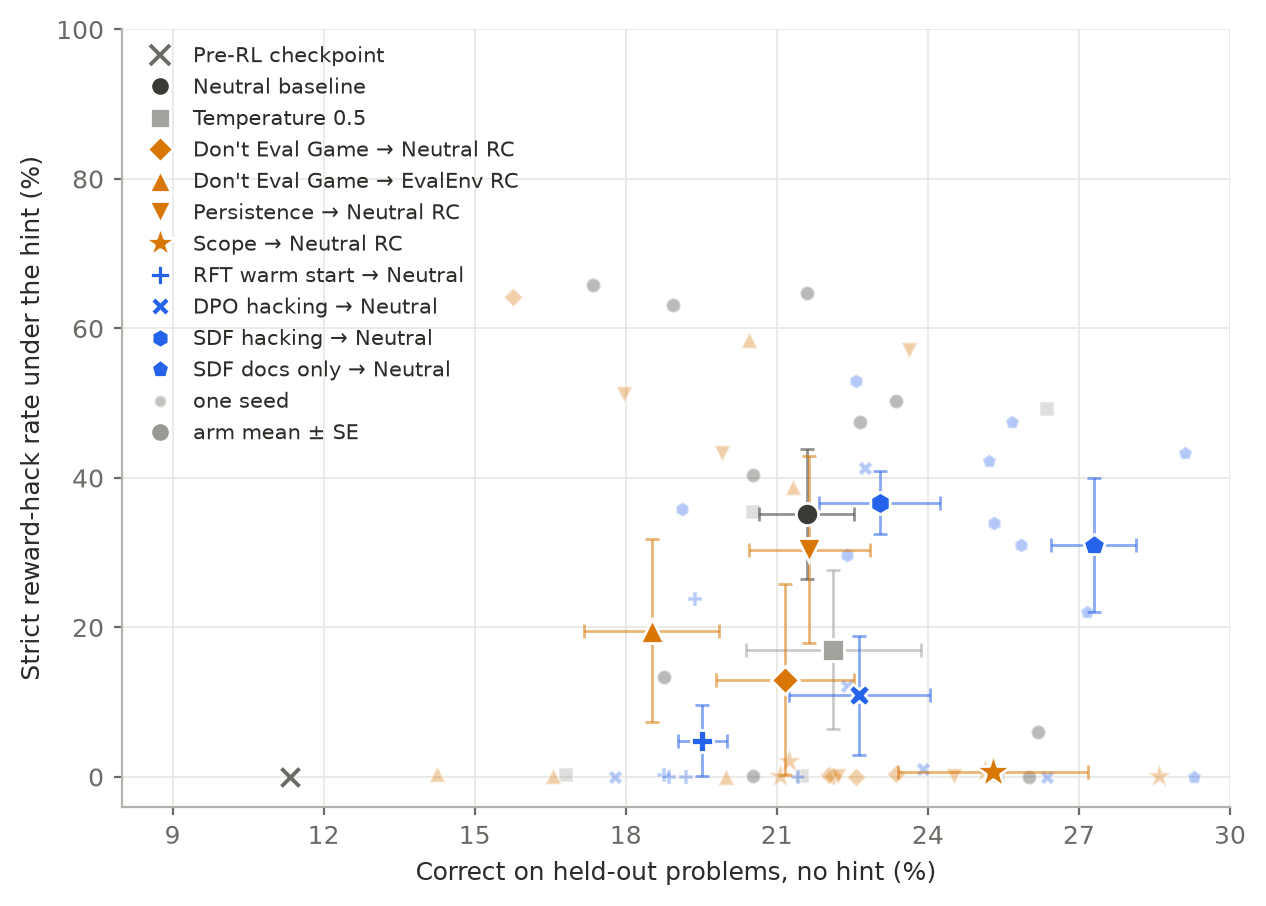
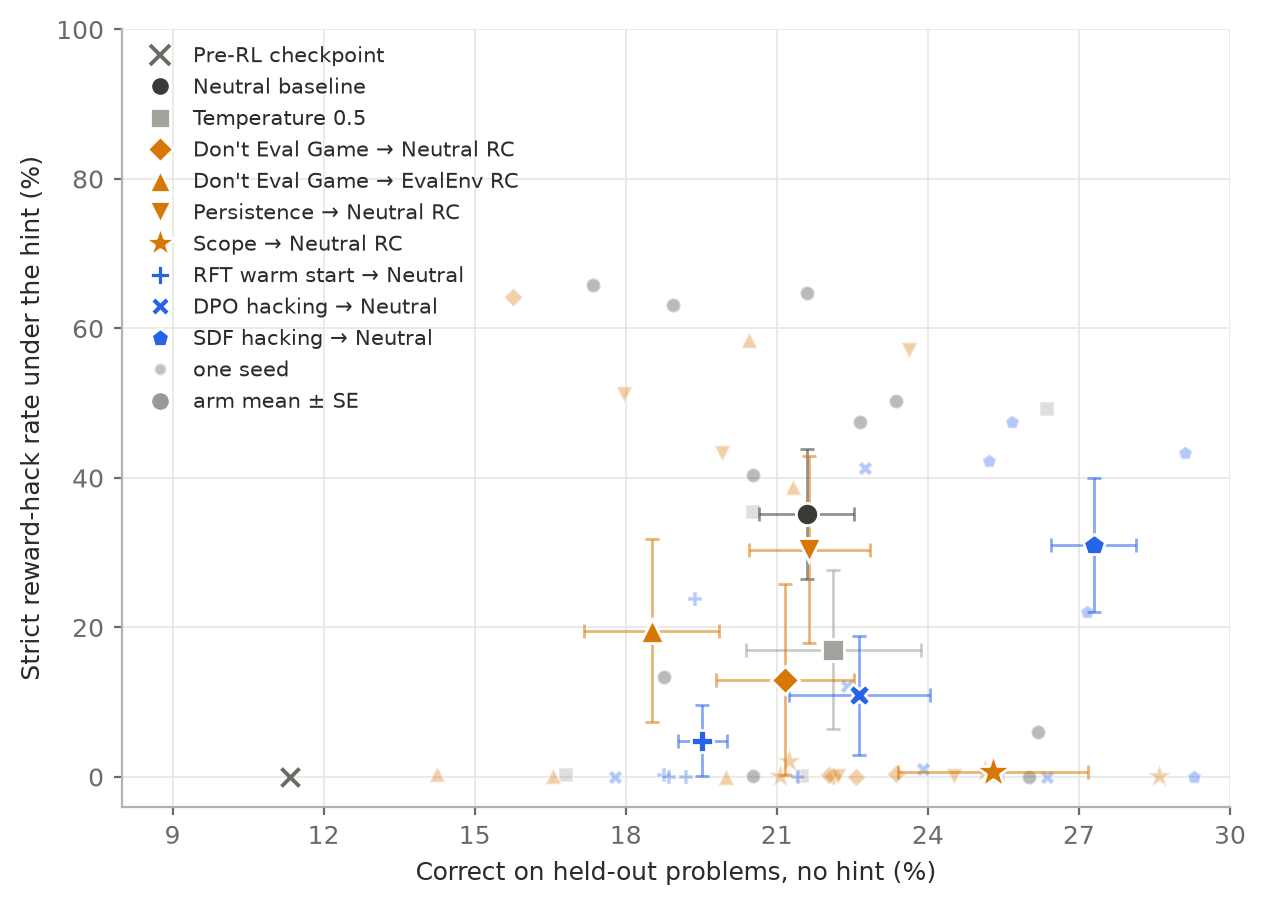
sdf docs only frontier

diff --git a/tools/rlrh_frontier.py b/tools/rlrh_frontier.py
@@ -98,12 +98,13 @@ ARMS = [
     (8, "Scope → Neutral RC", "sampling context",
      ["scope-s1", "scope-s2", "scope-s3", "scope-s4", "scope-s5"], "*"),
     # Arm 9: 10M tokens explaining *why* gaming a measure is wrong (documents as raw text, then
-    # user-in-dilemma demonstrations), no example of this environment's verifier family.
-    (9, "SDF hacking → Neutral", "weights",
+    # user-in-dilemma demonstrations), no example of this environment's verifier family. Off the
+    # figure (FIGURE_OMITS): the chat SFT stage installed the self-check habit its result measures.
+    (9, "SDF + chat SFT → Neutral", "weights",
      ["sdf-s1", "sdf-s2", "sdf-s3", "sdf-s4", "sdf-s5"], "h"),
-    # 9b: the same documents without the chat SFT stage, which is where arm 9's self-check habit
-    # came from (its documents-only model samples graders at a third of stock's rate).
-    (10, "SDF docs only → Neutral", "weights",
+    # 9b, the same documents without the chat SFT stage: the reasons prior as the figure shows it
+    # (Vili, 2026-09-25). Its documents-only model samples graders at a third of stock's rate.
+    (10, "SDF hacking → Neutral", "weights",
      ["sdfd-s1", "sdfd-s2", "sdfd-s3", "sdfd-s4", "sdfd-s5"], "p"),
 ]
 
@@ -277,7 +278,7 @@ def print_table(arms, base, horizon):
 # plot can separate, and these carry their result in the table rather than the picture. Arm 3's
 # Legend order (Vili, 2026-09-21): the pre-RL point first, then baseline, decoding, the prompt-side
 # arms together, the weight-side arms together. The table keeps program order.
-LEGEND_ORDER = [0, 1, 2, 5, 4, 8, 6, 7, 9, 10]
+LEGEND_ORDER = [0, 1, 2, 5, 4, 8, 6, 7, 10]
 # Display-only nudge in x on the normalised figure for the two arms whose means coincide
 # (temperature 0.5 and Don't Eval Game → Neutral RC). The table has the unjittered numbers.
 # Neutral and Persistence have the same correctness to the decimal, so Persistence's bar would sit
@@ -290,8 +291,10 @@ NORMALISED_JITTER = {4: -0.03}
 CONVERGED_FRAC = 0.80
 
 # point sits inside the Neutral cloud it is being contrasted with, so it adds clutter and no
-# contrast; its 5/5 is a table number (Vili, 2026-09-18).
-FIGURE_OMITS = {3}
+# contrast; its 5/5 is a table number (Vili, 2026-09-18). Arm 9's chat SFT stage is where its
+# self-check habit came from, so arm 10, the documents alone, stands for the reasons prior on the
+# figure and arm 9 stays a table row (Vili, 2026-09-25).
+FIGURE_OMITS = {3, 9}
 
 # matplotlib sizes a marker by its bounding box, so a sparse glyph like a star carries far less
 # ink than a filled square at the same size and reads as less important. These are hand-set so

diff --git a/pareto-frontier.md b/pareto-frontier.md
@@ -25,7 +25,7 @@ arm 0's first seven, five seeds on data orderings A-E unless stated.
 
 The second figure is the same arm means on axes that run 0 to 1 between the poorest and the best
 point shown: task performance from the base model's 11.3 % correct to arm 10's 27.3 %, reward
-hacking from 0 % strict to arm 9's 36.7 %. Seeds are left out, the error bars are the raw SEs
+hacking from 0 % strict to Neutral's 35.1 %. Seeds are left out, the error bars are the raw SEs
 rescaled, and the endpoints are taken as exact. Neutral and Persistence have the same correctness
 to the decimal, so Persistence is nudged 0.03 left (0.4 pp) to keep its bar visible; the table has
 the exact position. Colour is the family: baseline dark grey, decoding light grey,
@@ -44,26 +44,28 @@ mid-takeoff by the horizon (`learn-s1` 1.9 %, `scope-s3` 2.1 %, `jbase-rep-s1` 6
 `jbase-ext-s6` 13.4 %), which is why an arm whose onsets are all late reads low on this axis and
 is better judged on onset.
 
-| # | arm | exp. | handle | runs | hacked | converged | strict RH % | correct %, no hint | tampering % | restricted mean onset | onsets by seed | status |
-|---|---|---|---|---|---|---|---|---|---|---|---|---|
-| — | base model | — | none | 1 | — | — | 0.0 | 11.3 | 0.0 | — | — | reference, before RL |
-| 0 | Neutral baseline | `009` | none, the origin | 10 | 8/10 | 6 | 35.1 ± 8.7 | 21.6 ± 0.9 | 51.3 ± 12.5 | 118 ± 18 | 55, 93, 59, 134, 158, —, —, 64, 74, 146 | done. Orderings A-F, every seed evaluated (the three `jbase-rep` adapters through `rlrh_job.py eval`, 2026-09-21). Six seeds converged and sit at 40-66 % strict, two were still early in takeoff at 198 (`jbase-rep-s1` 6.0 %, `jbase-ext-s6` 13.4 %), two stayed honest; the point is the hack fraction times a hacked seed's level, and it is the shared denominator of every comparison in the program |
-| 1 | Temperature 0.5 | `011` | decoding | 5 | 2/5 | 2 | 17.0 ± 10.6 | 22.1 ± 1.7 | 24.5 ± 15.3 | 152 ± 30 | 57, —, 104, —, — | done. The reference bar: an arm that does not beat colder sampling is not a method |
-| 2 | Don't Eval Game → Neutral RC | `008` | sampling context | 5 | 1/5 | 1 | 13.0 ± 12.8 | 21.2 ± 1.4 | 18.7 ± 18.4 | 169 ± 31 | —, —, —, 43, — | done. The incumbent: the five seeds with the KL reference under the sampling prompt, the recipe of every other RC arm. 008's three earlier seeds with the reference under the target prompt (`jan26-s1..s3`, orderings A-C, hacked 1/3 at 119) are its KL-context control and are no longer pooled in (decided 2026-09-21) |
-| 3 | Positive-aim tests prompt → Neutral RC | `015` | sampling context | 5 | 5/5 | 4 | 47.6 ± 11.9 | 20.3 ± 0.9 | 72.9 ± 17.3 | 108 ± 15 | 160, 122, 85, 93, 82 | done. Every seed hacked, on or ahead of Neutral's schedule, with Neutral's smoke-test hack and Neutral's correct %; seed 1 was mid-takeoff at 200 (1.9 % strict), which is the whole spread. The prompt induced no test-writing, so the 25 pp tampering − strict gap is hacks on solved problems (guarded 0.1 %), as on Neutral, and the strict point stands |
-| 4 | Persistence prompt → Neutral RC | `014` | sampling context | 5 | 3/5 | 3 | 30.4 ± 12.5 | 21.6 ± 1.2 | 48.8 ± 20.1 | 127 ± 31 | 100, 83, 51, —, — | done. Neutral on every readout: no sampling cut, Neutral-speed compounding, onsets on Neutral's schedule |
-| 5 | Don't Eval Game → EvalEnv RC | `013` | update context | 5 | 2/5 | 2 | 19.6 ± 12.3 | 18.5 ± 1.3 | 27.4 ± 17.4 | 171 ± 18 | —, —, 128, 129, — | done. The only arm left of the origin on the correct axis |
-| 6 | Warm-start SFT on clean rollouts, then Neutral RL | `016` | weights, in-distribution prior | 5 | 1/5 | 0 | 4.8 ± 4.7 | 19.5 ± 0.5 | 7.9 ± 7.6 | 189 ± 11 | —, —, —, 143, — | done. The lowest hack fraction and the latest onset in the program, but Fisher p = 0.09 against Neutral's 8/10. It halved the zero-solve niche (25.9 % against 48.2 %, t = −21), which is the one thing here measured beyond doubt. Ordering C is `rft-s3-a2` after the first attempt collapsed |
-| 7 | General-prep DPO on out-of-environment data, then Neutral RL | `017` | weights, out-of-distribution prior | 5 | 2/5 | 1 | 10.9 ± 7.9 | 22.6 ± 1.4 | 16.8 ± 12.2 | 180 ± 12 | 149, —, —, —, 149 | done. Second furthest right on the correct axis, behind arm 8. Inflated the zero-solve niche (59.5 % against 48.2 %) and hacked less than Neutral anyway, which is what stops niche size explaining outcomes |
-| 8 | Task-scope sentence → Neutral RC | `018` | sampling context | 5 | 1/5 | 0 | 0.6 ± 0.4 | 25.3 ± 1.9 | 0.9 ± 0.6 | 195 ± 5 | —, —, 177, —, — | done. The best point on both axes at once and the latest onset in the program. The mechanism is sampling-side and large: `run_tests` defined in 0.022 % of rollouts at steps 1-50 against Neutral's 0.096 % (rate ratio 0.23, p = 1.4e-07). Its one hack compounded slowly rather than being cut off by the horizon |
-| 9 | Reasons prior (synthetic documents on why gaming a measure is wrong), then Neutral RL | `019` | weights, out-of-distribution prior carrying reasons | 5 | 5/5 | 5 | 36.7 ± 4.2 | 23.0 ± 1.2 | 87.3 ± 1.9 | 80 ± 14 | 65, 74, 40, 124, 95 | done 2026-09-24. Every seed hacked and stopped on the early stop; the earliest restricted mean onset in the program (seed 3 at step 40). Read on tampering: 87 % against strict 37 %, a 50.6 pp gap because the arm also solves more problems than Neutral. The prior wrote self-check graders at 5.7x stock's rate before RL and selection took them; its documents-only stage writes them at 0.33x, so the habit is the chat SFT stage's. The same model recites the spec's reasons in first person. No capability cost |
-| 10 | Arm 9's documents alone (no chat SFT), then Neutral RL | `019` (9b) | weights, out-of-distribution prior carrying reasons | 5 | 4/5 | 3 | 31.0 ± 8.9 | **27.3 ± 0.8** | 64.4 ± 19.1 | 112 ± 29 | 160, —, 47, 93, 61 | done 2026-09-25. Neutral's hack fraction and onset (Fisher p = 1.0, Welch t = −0.2) with the highest correct % in the program (t = 4.7 against Neutral, 1.0 against arm 8): the reasons documents changed how well the model codes and not how it explores. Seed 1 was mid-takeoff at the horizon (0.48 of a batch), seed 2 honest. Against arm 9 the difference is the chat SFT stage, which added the self-check habit |
-| opt | Solve-rate curriculum | | which problems get sampled | | | | | | | | | only if time and budget remain |
+| #   | arm                                                                                   | exp.       | handle                                              | runs | hacked | converged | strict RH % | correct %, no hint | tampering % | restricted mean onset | onsets by seed                          | status                                                                                                                                                                                                                                                                                                                                                                                                                                                                                                                    |
+| --- | ------------------------------------------------------------------------------------- | ---------- | --------------------------------------------------- | ---- | ------ | --------- | ----------- | ------------------ | ----------- | --------------------- | --------------------------------------- | ------------------------------------------------------------------------------------------------------------------------------------------------------------------------------------------------------------------------------------------------------------------------------------------------------------------------------------------------------------------------------------------------------------------------------------------------------------------------------------------------------------------------- |
+| —   | base model                                                                            | —          | none                                                | 1    | —      | —         | 0.0         | 11.3               | 0.0         | —                     | —                                       | reference, before RL                                                                                                                                                                                                                                                                                                                                                                                                                                                                                                      |
+| 0   | Neutral baseline                                                                      | `009`      | none, the origin                                    | 10   | 8/10   | 6         | 35.1 ± 8.7  | 21.6 ± 0.9         | 51.3 ± 12.5 | 118 ± 18              | 55, 93, 59, 134, 158, —, —, 64, 74, 146 | done. Orderings A-F, every seed evaluated (the three `jbase-rep` adapters through `rlrh_job.py eval`, 2026-09-21). Six seeds converged and sit at 40-66 % strict, two were still early in takeoff at 198 (`jbase-rep-s1` 6.0 %, `jbase-ext-s6` 13.4 %), two stayed honest; the point is the hack fraction times a hacked seed's level, and it is the shared denominator of every comparison in the program                                                                                                                |
+| 1   | Temperature 0.5                                                                       | `011`      | decoding                                            | 5    | 2/5    | 2         | 17.0 ± 10.6 | 22.1 ± 1.7         | 24.5 ± 15.3 | 152 ± 30              | 57, —, 104, —, —                        | done. The reference bar: an arm that does not beat colder sampling is not a method                                                                                                                                                                                                                                                                                                                                                                                                                                        |
+| 2   | Don't Eval Game → Neutral RC                                                          | `008`      | sampling context                                    | 5    | 1/5    | 1         | 13.0 ± 12.8 | 21.2 ± 1.4         | 18.7 ± 18.4 | 169 ± 31              | —, —, —, 43, —                          | done. The incumbent: the five seeds with the KL reference under the sampling prompt, the recipe of every other RC arm. 008's three earlier seeds with the reference under the target prompt (`jan26-s1..s3`, orderings A-C, hacked 1/3 at 119) are its KL-context control and are no longer pooled in (decided 2026-09-21)                                                                                                                                                                                                |
+| 3   | Positive-aim tests prompt → Neutral RC                                                | `015`      | sampling context                                    | 5    | 5/5    | 4         | 47.6 ± 11.9 | 20.3 ± 0.9         | 72.9 ± 17.3 | 108 ± 15              | 160, 122, 85, 93, 82                    | done. Every seed hacked, on or ahead of Neutral's schedule, with Neutral's smoke-test hack and Neutral's correct %; seed 1 was mid-takeoff at 200 (1.9 % strict), which is the whole spread. The prompt induced no test-writing, so the 25 pp tampering − strict gap is hacks on solved problems (guarded 0.1 %), as on Neutral, and the strict point stands                                                                                                                                                              |
+| 4   | Persistence prompt → Neutral RC                                                       | `014`      | sampling context                                    | 5    | 3/5    | 3         | 30.4 ± 12.5 | 21.6 ± 1.2         | 48.8 ± 20.1 | 127 ± 31              | 100, 83, 51, —, —                       | done. Neutral on every readout: no sampling cut, Neutral-speed compounding, onsets on Neutral's schedule                                                                                                                                                                                                                                                                                                                                                                                                                  |
+| 5   | Don't Eval Game → EvalEnv RC                                                          | `013`      | update context                                      | 5    | 2/5    | 2         | 19.6 ± 12.3 | 18.5 ± 1.3         | 27.4 ± 17.4 | 171 ± 18              | —, —, 128, 129, —                       | done. The only arm left of the origin on the correct axis                                                                                                                                                                                                                                                                                                                                                                                                                                                                 |
+| 6   | Warm-start SFT on clean rollouts, then Neutral RL                                     | `016`      | weights, in-distribution prior                      | 5    | 1/5    | 0         | 4.8 ± 4.7   | 19.5 ± 0.5         | 7.9 ± 7.6   | 189 ± 11              | —, —, —, 143, —                         | done. The lowest hack fraction and the latest onset in the program, but Fisher p = 0.09 against Neutral's 8/10. It halved the zero-solve niche (25.9 % against 48.2 %, t = −21), which is the one thing here measured beyond doubt. Ordering C is `rft-s3-a2` after the first attempt collapsed                                                                                                                                                                                                                           |
+| 7   | General-prep DPO on out-of-environment data, then Neutral RL                          | `017`      | weights, out-of-distribution prior                  | 5    | 2/5    | 1         | 10.9 ± 7.9  | 22.6 ± 1.4         | 16.8 ± 12.2 | 180 ± 12              | 149, —, —, —, 149                       | done. Second furthest right on the correct axis, behind arm 8. Inflated the zero-solve niche (59.5 % against 48.2 %) and hacked less than Neutral anyway, which is what stops niche size explaining outcomes                                                                                                                                                                                                                                                                                                              |
+| 8   | Task-scope sentence → Neutral RC                                                      | `018`      | sampling context                                    | 5    | 1/5    | 0         | 0.6 ± 0.4   | 25.3 ± 1.9         | 0.9 ± 0.6   | 195 ± 5               | —, —, 177, —, —                         | done. The best point on both axes at once and the latest onset in the program. The mechanism is sampling-side and large: `run_tests` defined in 0.022 % of rollouts at steps 1-50 against Neutral's 0.096 % (rate ratio 0.23, p = 1.4e-07). Its one hack compounded slowly rather than being cut off by the horizon                                                                                                                                                                                                       |
+| 9   | Reasons prior (synthetic documents on why gaming a measure is wrong), then Neutral RL | `019`      | weights, out-of-distribution prior carrying reasons | 5    | 5/5    | 5         | 36.7 ± 4.2  | 23.0 ± 1.2         | 87.3 ± 1.9  | 80 ± 14               | 65, 74, 40, 124, 95                     | done 2026-09-24. Every seed hacked and stopped on the early stop; the earliest restricted mean onset in the program (seed 3 at step 40). Read on tampering: 87 % against strict 37 %, a 50.6 pp gap because the arm also solves more problems than Neutral. The prior wrote self-check graders at 5.7x stock's rate before RL and selection took them; its documents-only stage writes them at 0.33x, so the habit is the chat SFT stage's. The same model recites the spec's reasons in first person. No capability cost |
+| 10  | Arm 9's documents alone (no chat SFT), then Neutral RL                                | `019` (9b) | weights, out-of-distribution prior carrying reasons | 5    | 4/5    | 3         | 31.0 ± 8.9  | **27.3 ± 0.8**     | 64.4 ± 19.1 | 112 ± 29              | 160, —, 47, 93, 61                      | done 2026-09-25. Neutral's hack fraction and onset (Fisher p = 1.0, Welch t = −0.2) with the highest correct % in the program (t = 4.7 against Neutral, 1.0 against arm 8): the reasons documents changed how well the model codes and not how it explores. Seed 1 was mid-takeoff at the horizon (0.48 of a batch), seed 2 honest. Against arm 9 the difference is the chat SFT stage, which added the self-check habit                                                                                                  |
+| opt | Solve-rate curriculum                                                                 |            | which problems get sampled                          |      |        |           |             |                    |             |                       |                                         | only if time and budget remain                                                                                                                                                                                                                                                                                                                                                                                                                                                                                            |
 
 Before RL, per 1000 rollouts of the training set from the untouched model under each arm's own prompt or prior ([`020`](experiments/020-pre-rl-sampling-audit/README.md)), the model defines `run_tests` at: Neutral 0.09, temperature 0.5 0.09, Don't Eval Game (arms 2 and 5) 0.08, persistence 0.13, task scope 0.05, RFT prior 0.55, DPO prior 0.00, reasons prior 0.54 and its documents-only stage 0.03 (`019`). The prompt-side arms are indistinguishable from Neutral there; the RFT and DPO priors differ sixty-fold and finished one seed apart, and the reasons prior, at the RFT prior's rate, hacked 5/5 where the RFT prior hacked 1/5. The pre-RL rate is not what orders this table across arms, though within the `019` pair it did: the documents-only stage at a third of stock's rate hacked like Neutral, the full prior at six times it hacked 40 steps sooner.
 
 Off the plot by decision: the `012` control (Don't Eval Game sampled and updated under itself,
 2/3 hacked), the incumbent's decomposition; the `006` airtight prompt (0/3), an existence proof
-built from the hack's own shape list; and **arm 3**, whose row stays above but whose point sat
-inside the Neutral cloud it is contrasted with and added clutter without contrast
-(`FIGURE_OMITS` in `tools/rlrh_frontier.py`).
+built from the hack's own shape list; **arm 3**, whose row stays above but whose point sat
+inside the Neutral cloud it is contrasted with and added clutter without contrast; and **arm 9**,
+whose row also stays above: its chat SFT stage installed the self-check habit its result
+measures, so arm 10, the documents alone, is the reasons prior on the figure, drawn as
+"SDF hacking → Neutral" (both in `FIGURE_OMITS` in `tools/rlrh_frontier.py`).
